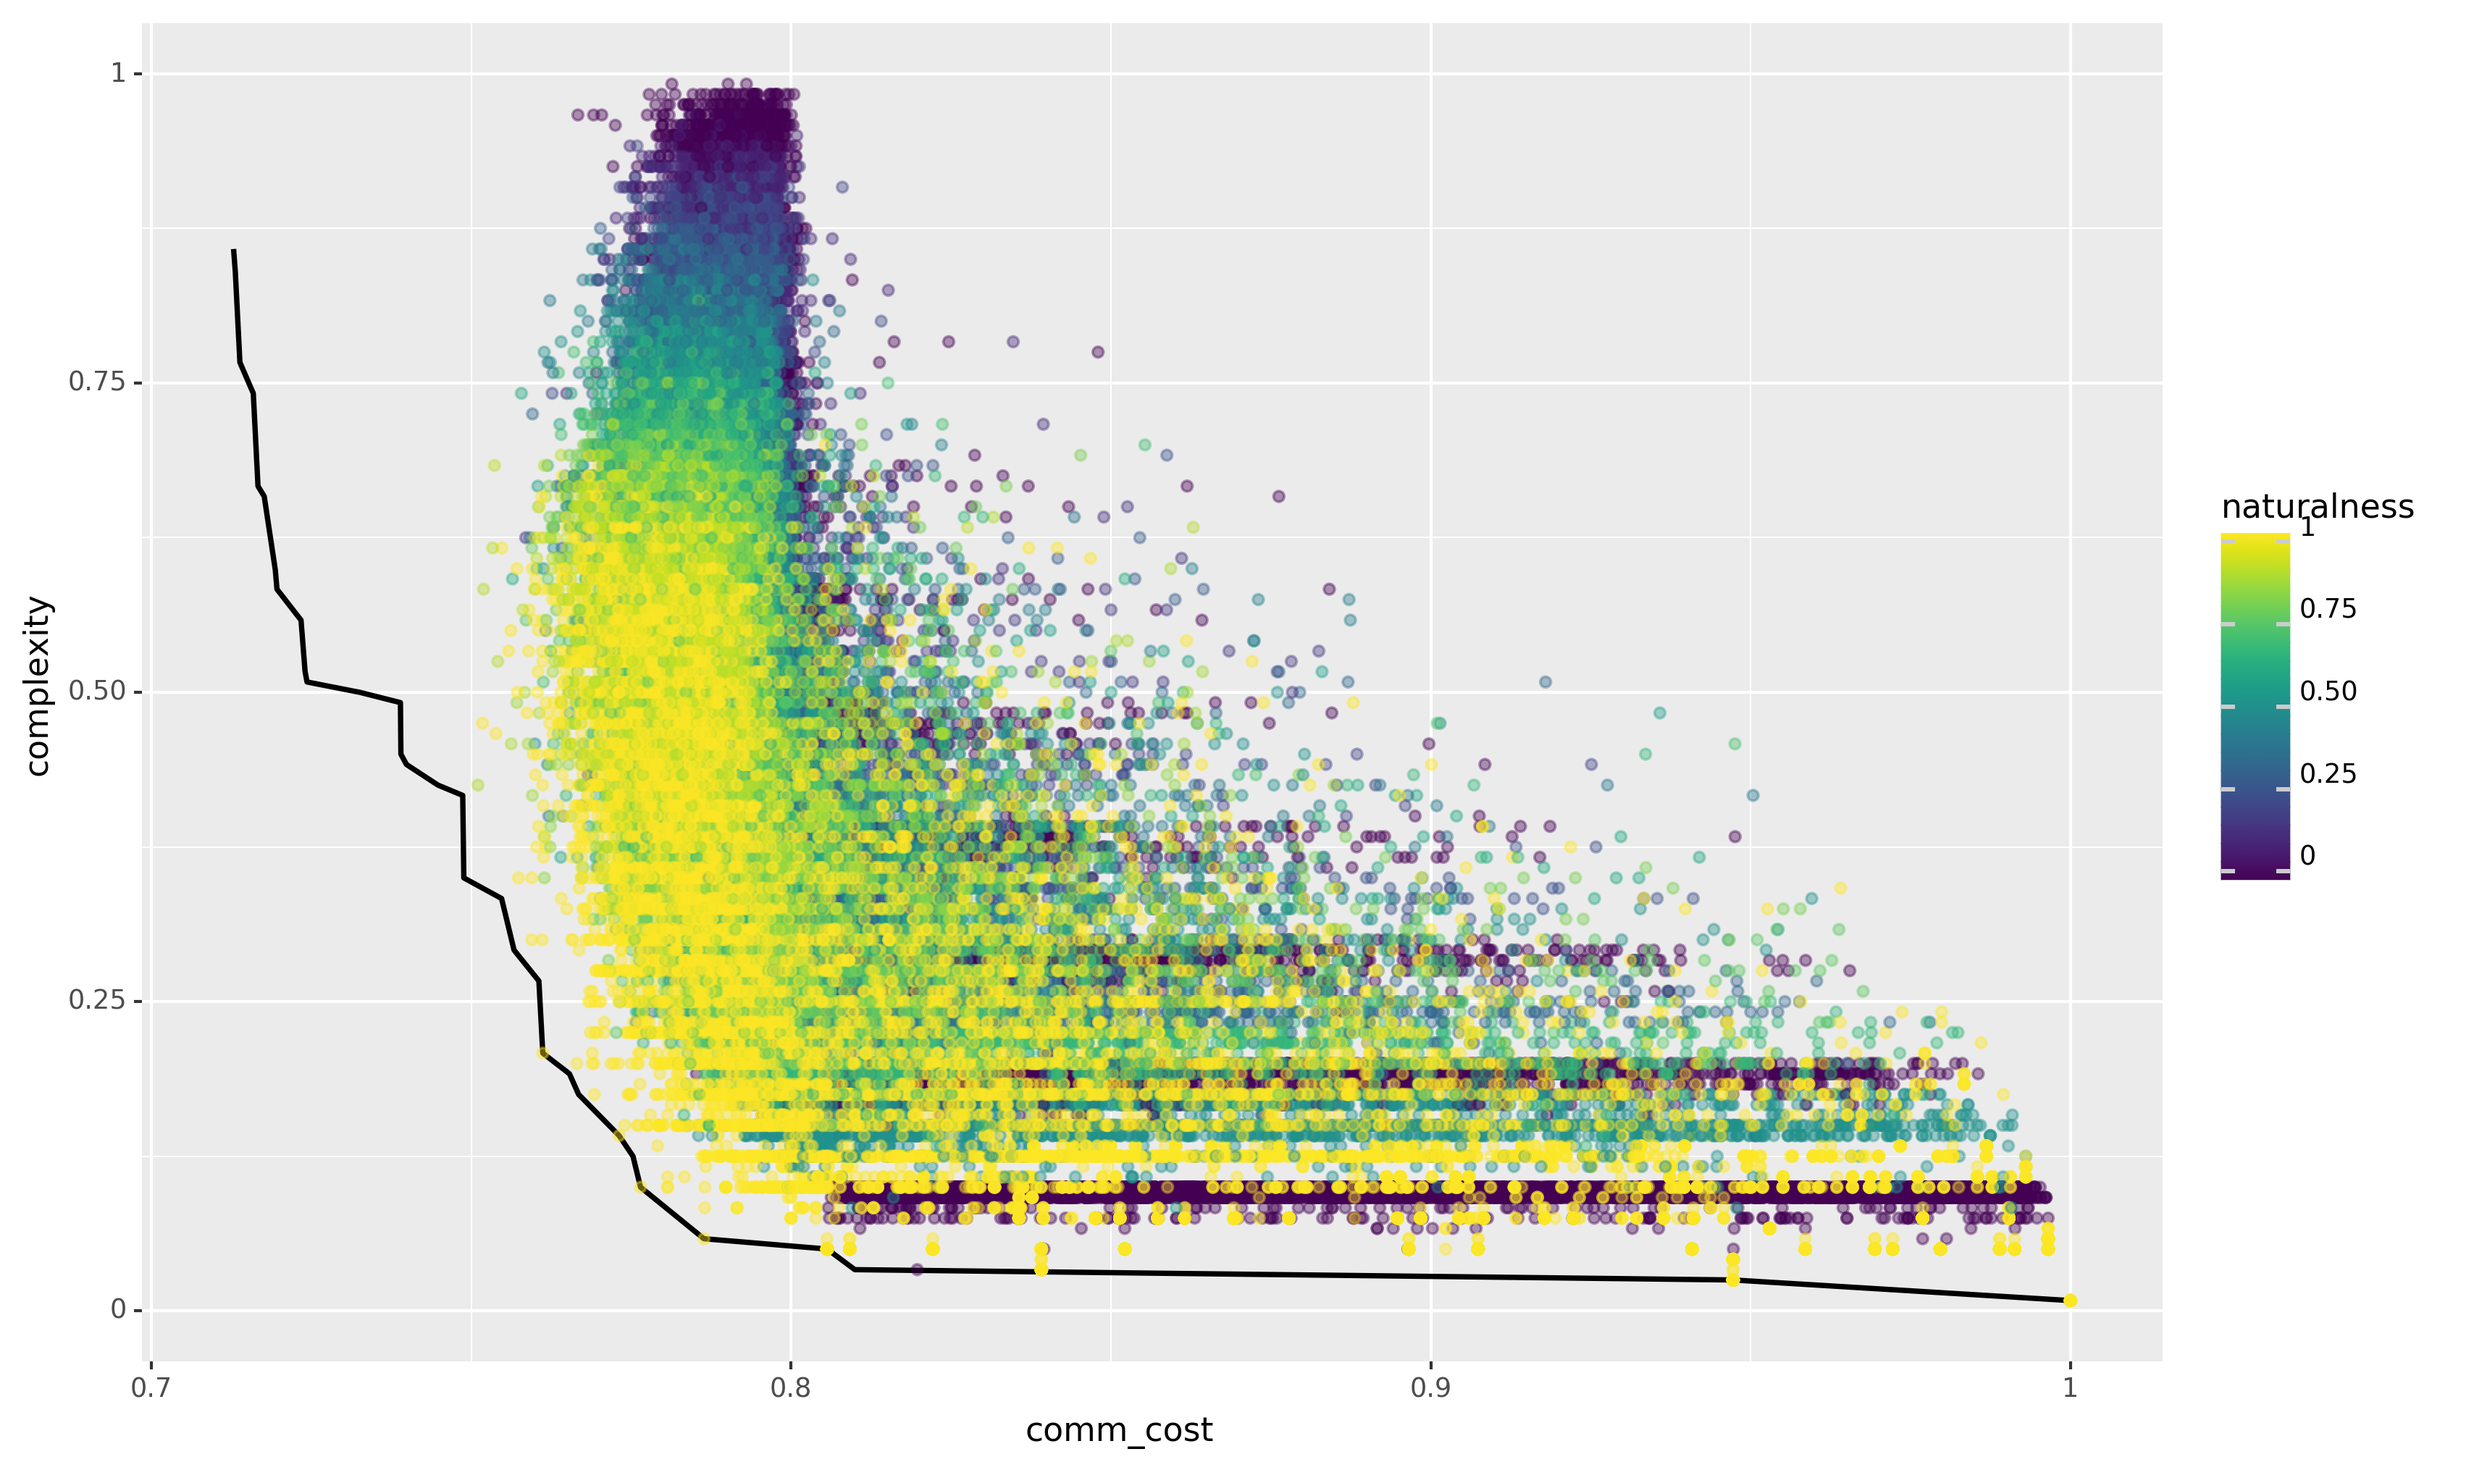
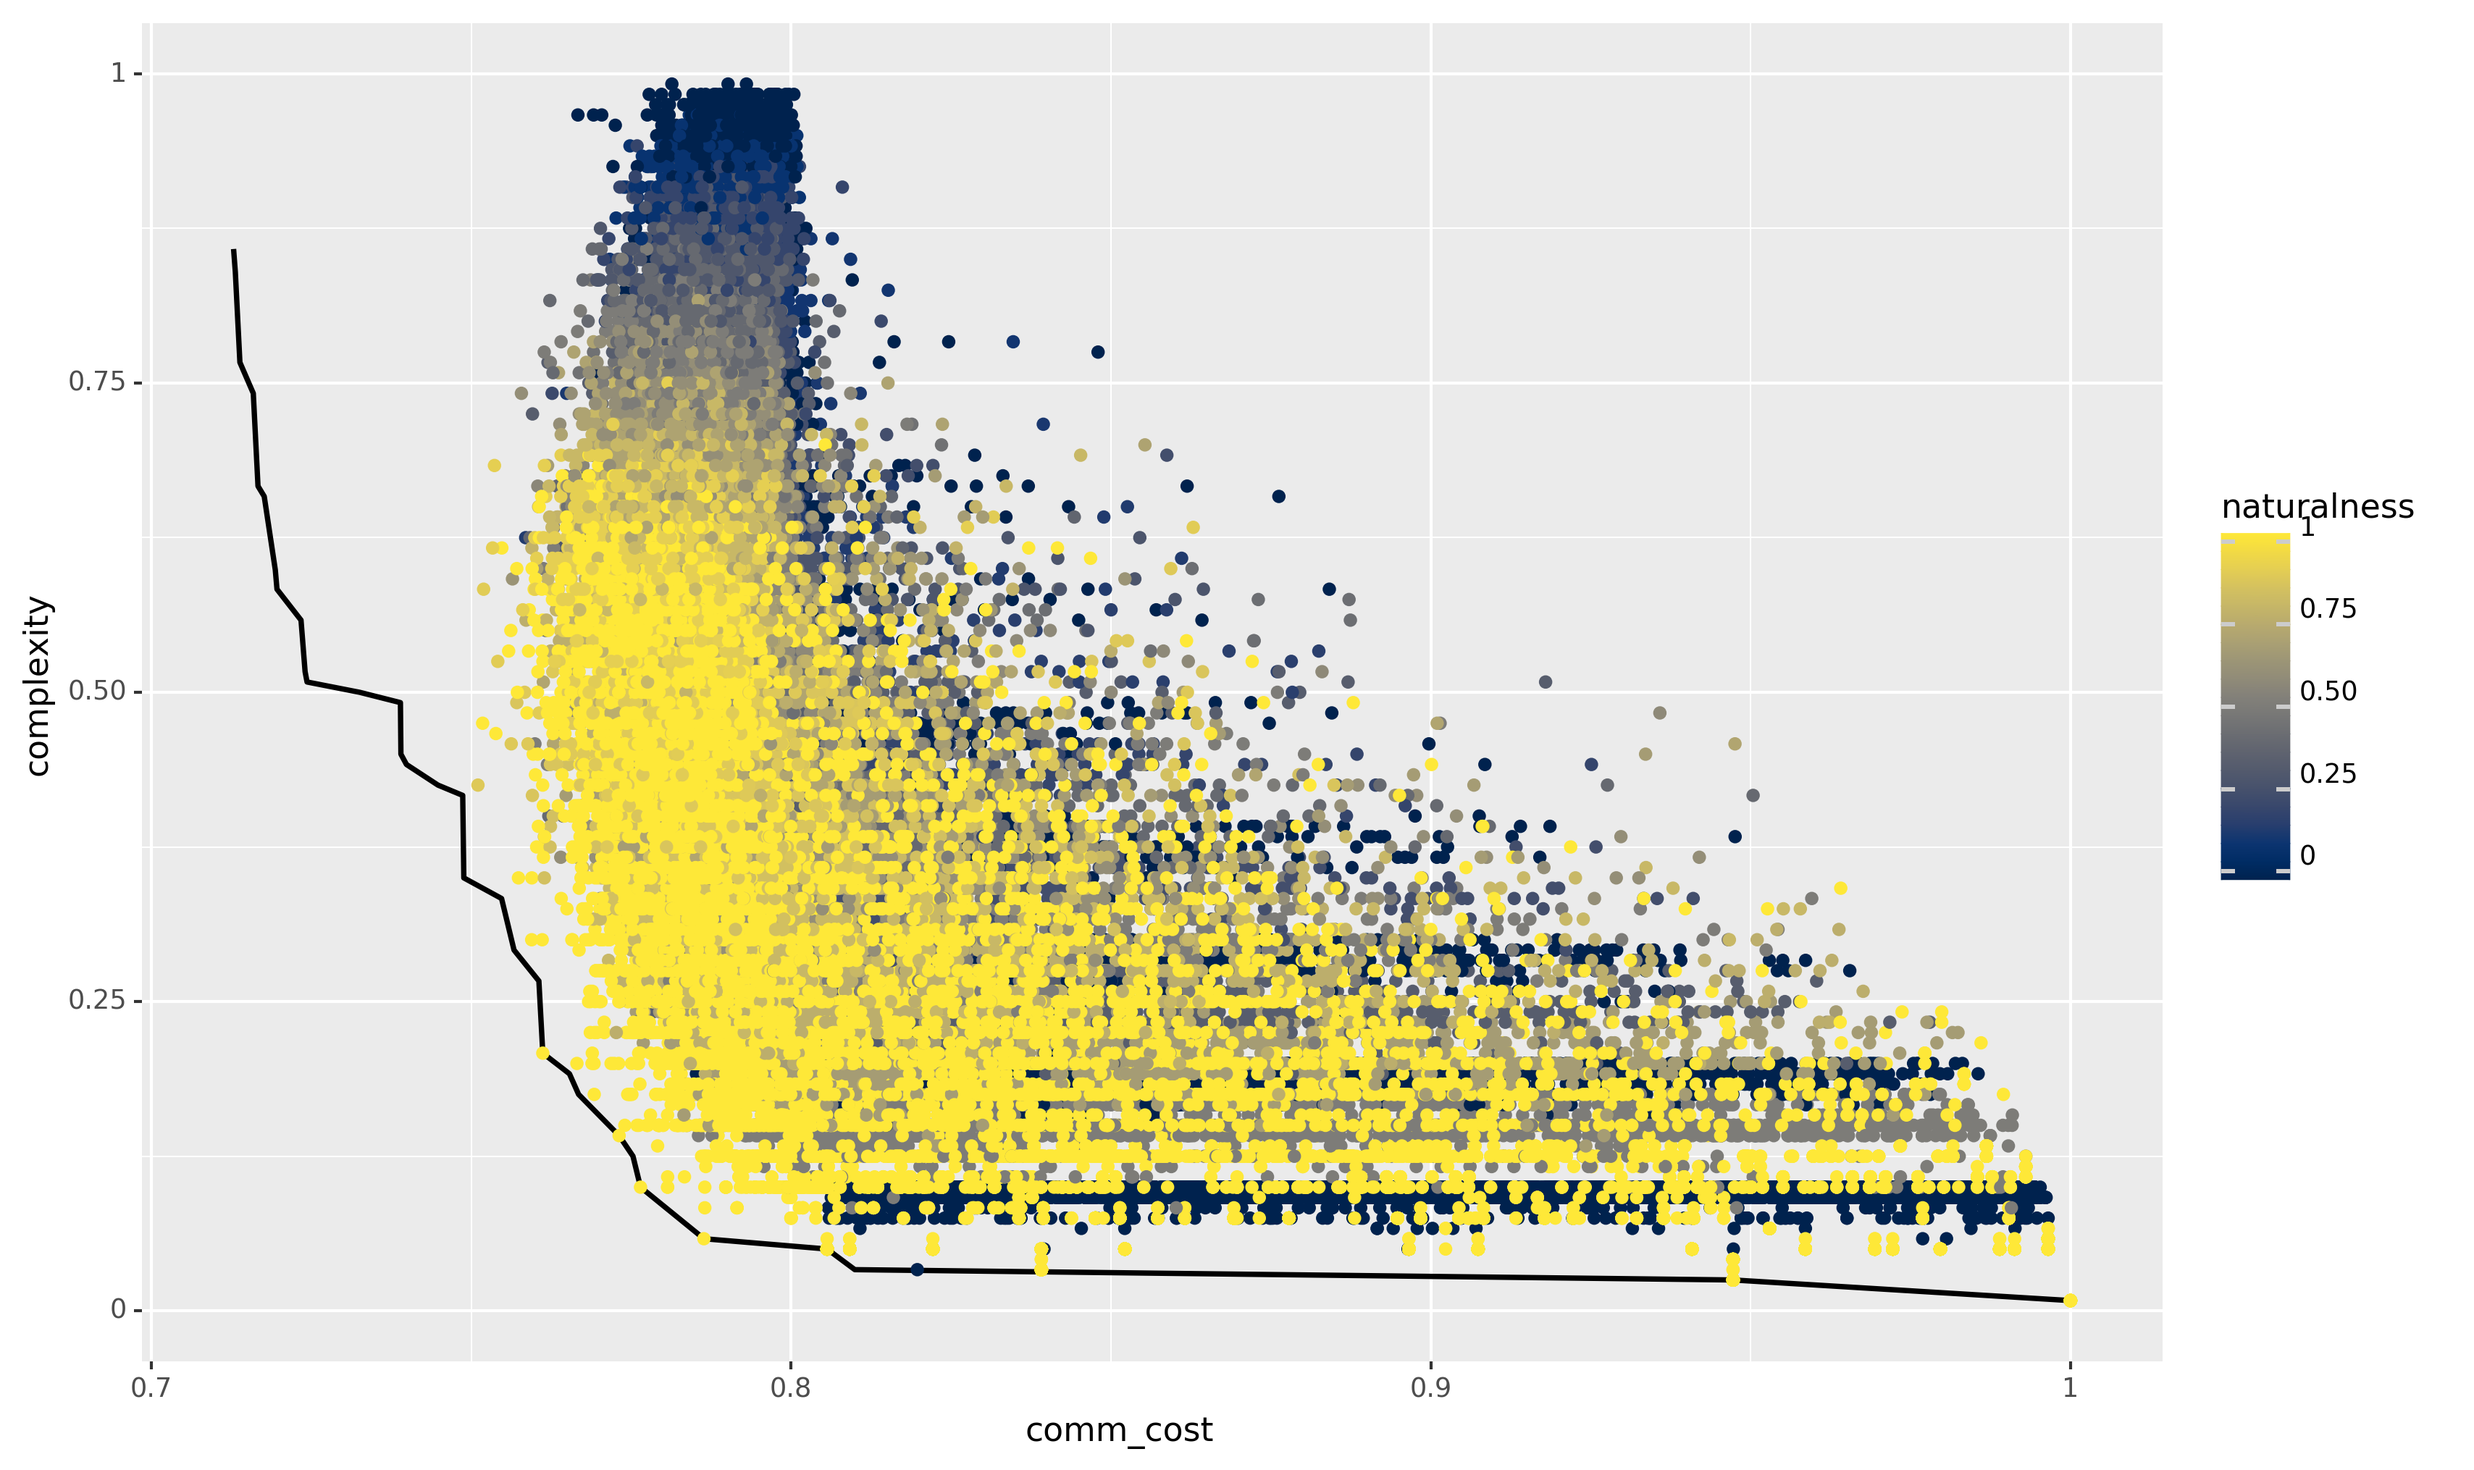
new color scale

Changed region(s): [[0.1862, 0.031, 0.8378, 0.869], [0.8999, 0.3414, 0.9309, 0.6207]]

diff --git a/Code/Languages/Analysis/AC_analysis.py b/Code/Languages/Analysis/AC_analysis.py
@@ -59,7 +59,8 @@ estimated_pareto = pd.DataFrame({'comm_cost':x, 'complexity':y})
 
 plot = (ggplot(aes(x='comm_cost', y='complexity')) +
         geom_line(size=1, data=estimated_pareto) +
-        geom_point(aes(color='naturalness'), alpha=0.6, data=main_data))
+        geom_point(aes(color='naturalness'), alpha=1.0, data=main_data) +
+        scale_color_cmap('cividis'))
 plot.save('naturalness_with_pareto.png', width=12, height=8, dpi=300)
 
 
